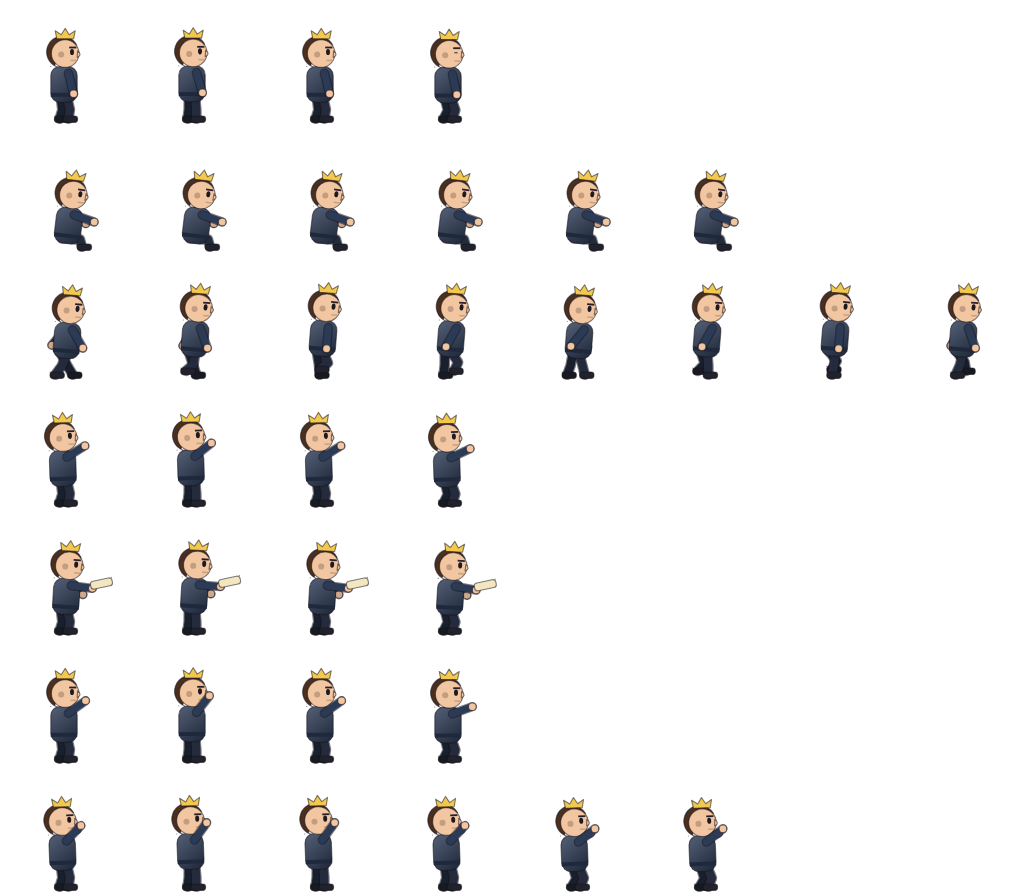
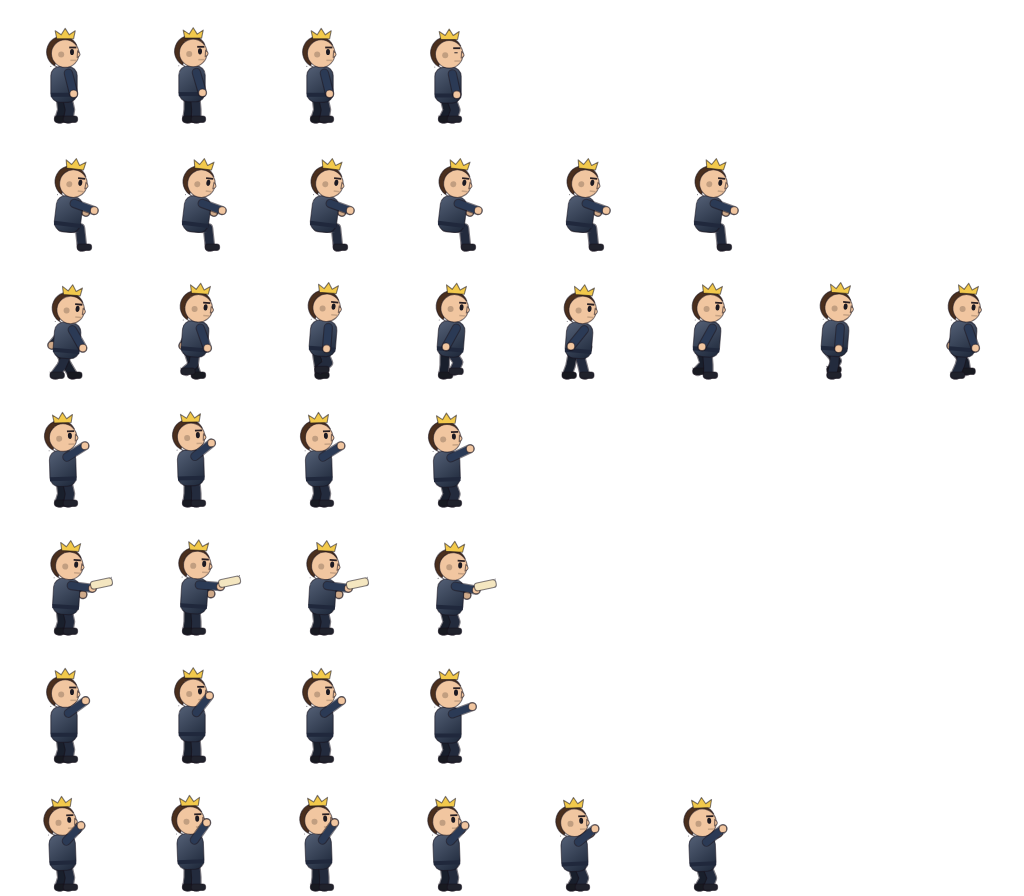
fix(team-scene): Office members sit on the chair seat, and a station meets the floor where its art says (ORCA-1139)

diff --git a/src/shared/orchestrator-game-scene-native.ts b/src/shared/orchestrator-game-scene-native.ts
@@ -13,6 +13,7 @@ export const ORCHESTRATOR_GAME_SCENE_ART_MAX_STYLE_PIXELS = 16 * 1024 * 1024
 const MAX_LAYERS = 8
 const MAX_SHEETS = 16
 const MAX_FRAME_PX = 512
+const MAX_PROP_PX = 4096
 const MAX_ROW = 63
 const MAX_FRAMES = 32
 const MAX_FPS = 30
@@ -95,7 +96,15 @@ const styleSchema = z.object({
     /** Wears the member art when absent. */
     advisor: roleSchema.optional()
   }),
-  props: z.object({ station: artPath.optional() }).optional()
+  props: z
+    .object({
+      station: artPath.optional(),
+      /** Where the station meets the floor, in its own pixels; the bottom center when absent. */
+      stationFeet: z
+        .object({ x: wholeNumber(0, MAX_PROP_PX), y: wholeNumber(0, MAX_PROP_PX) })
+        .optional()
+    })
+    .optional()
 })
 
 // Why only these keys: Pixel is the game's own art.

diff --git a/src/renderer/src/components/team-scene/team-scene-image-painter.ts b/src/renderer/src/components/team-scene/team-scene-image-painter.ts
@@ -105,16 +105,15 @@ export function createImagePainter(args: {
       return
     }
     const prop = image(station)
+    const feet = style.props?.stationFeet ?? { x: prop.width / 2, y: prop.height }
     for (const spot of f.stations) {
       const px = sheetPxAt(style.roles.member, spot.depth)
-      const width = prop.width * px
-      const height = prop.height * px
       g.drawImage(
         prop,
-        spot.x * f.width - width / 2,
-        feetY(spot.depth, f.height) - height,
-        width,
-        height
+        spot.x * f.width - feet.x * px,
+        feetY(spot.depth, f.height) - feet.y * px,
+        prop.width * px,
+        prop.height * px
       )
     }
   }
